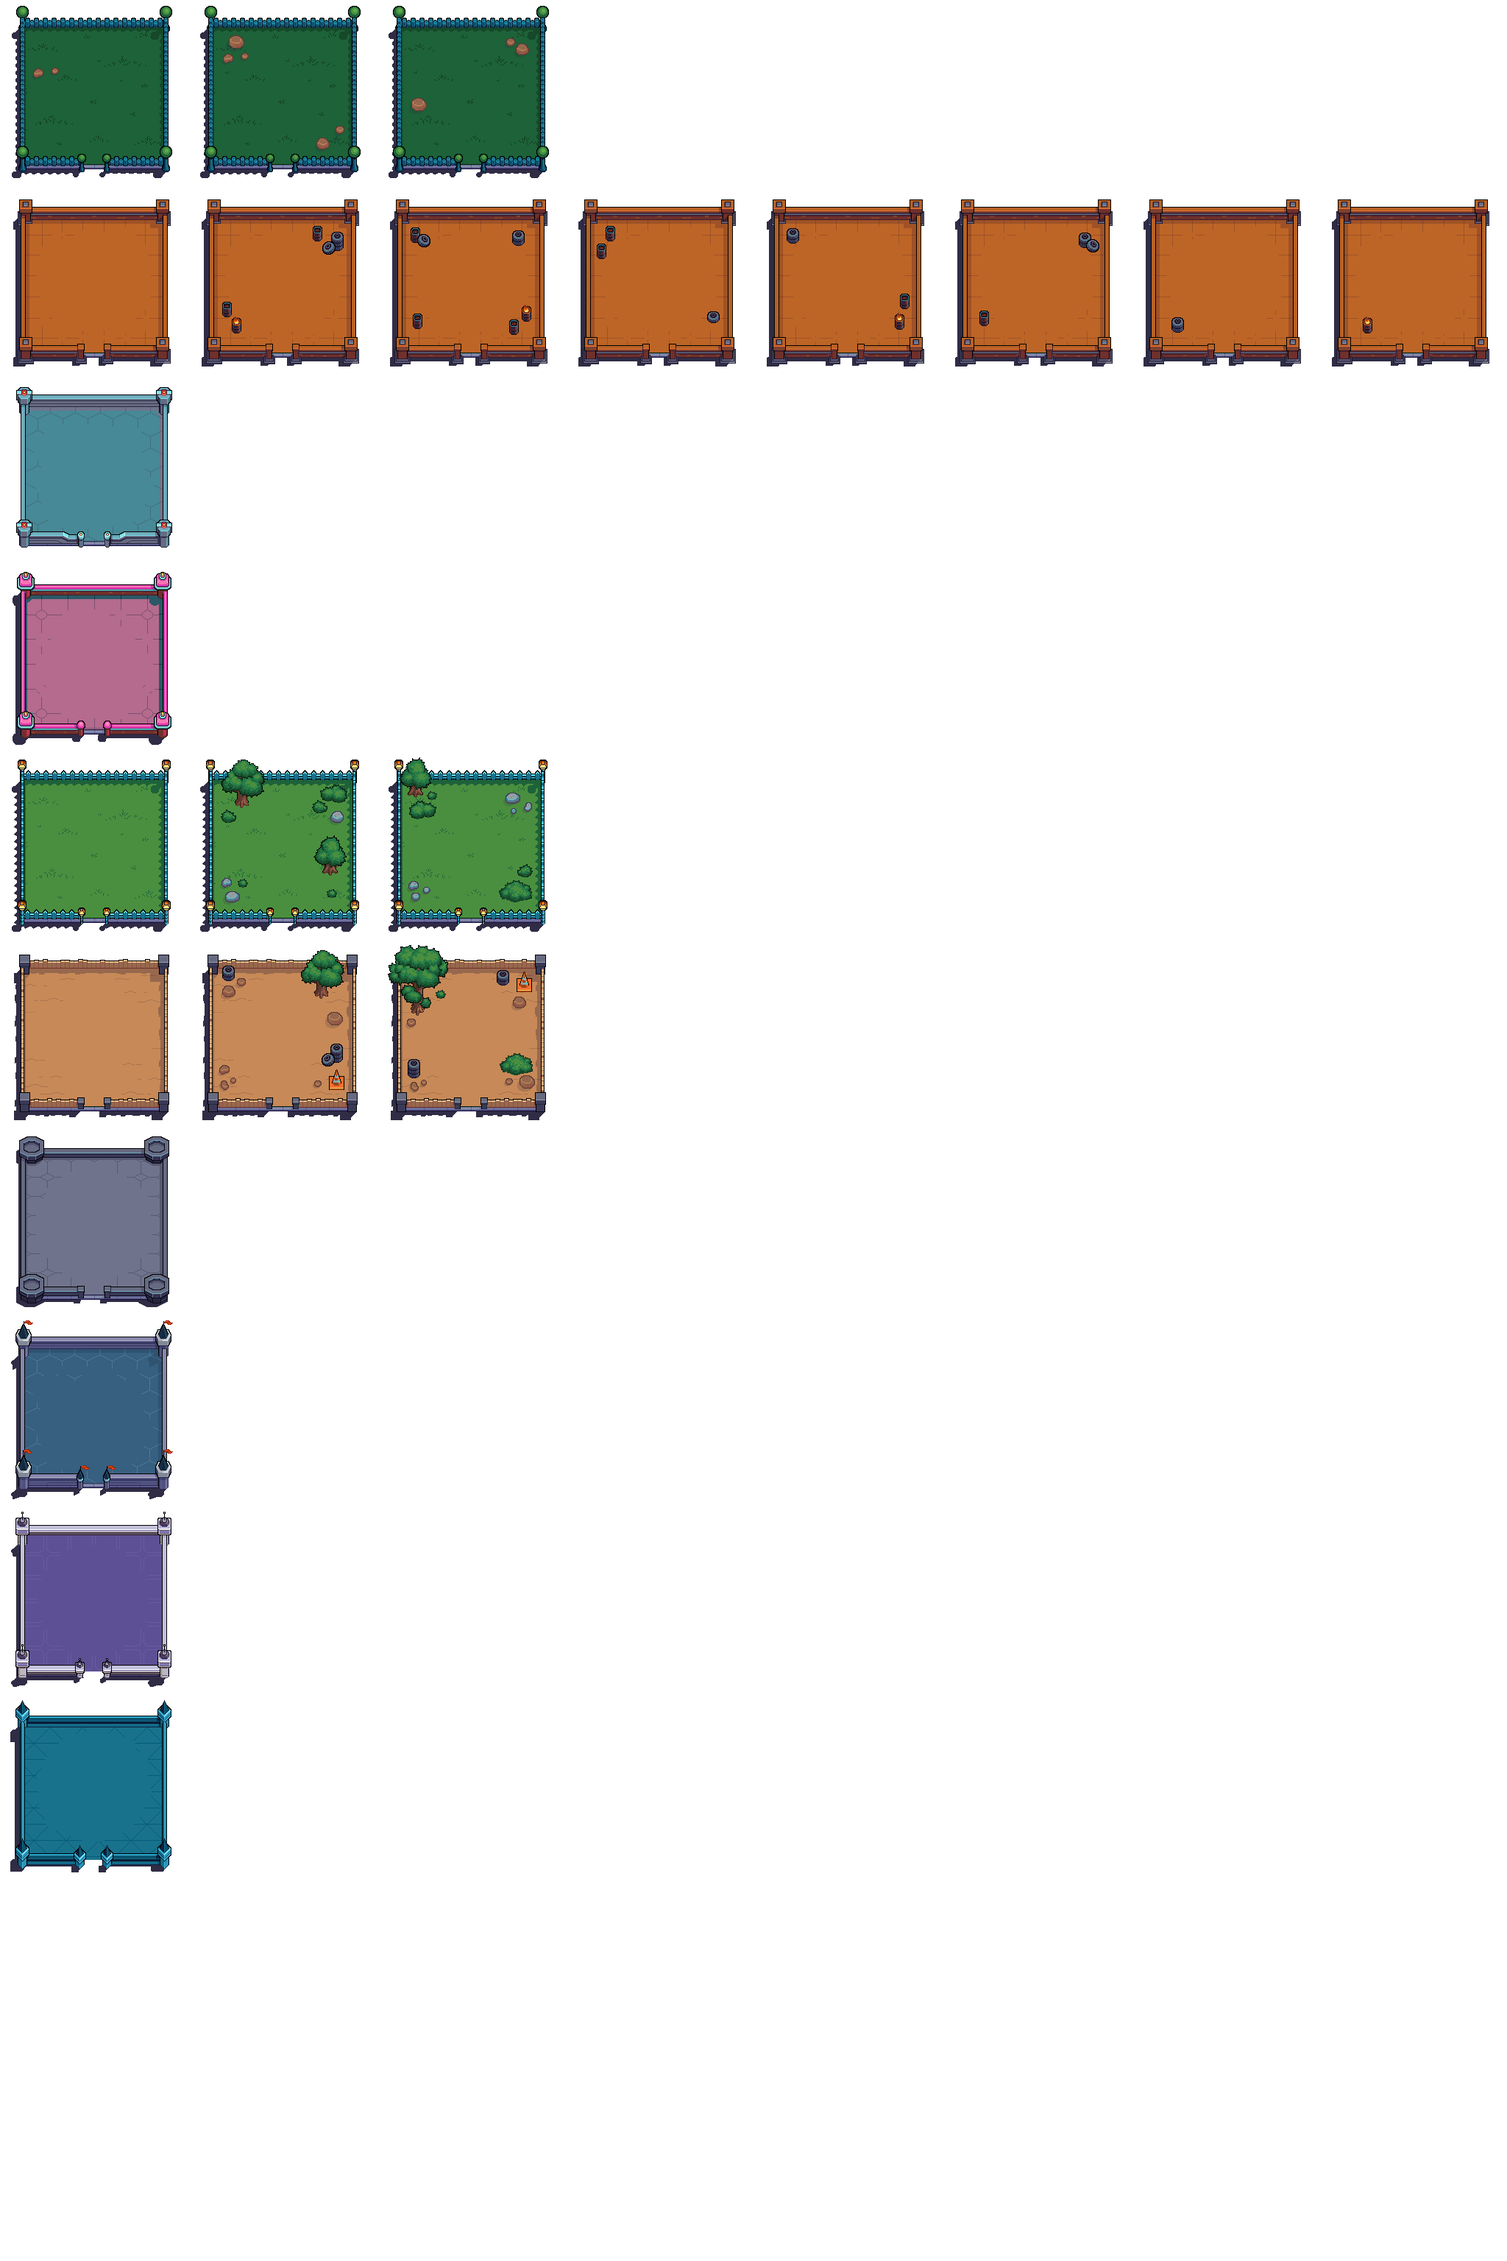
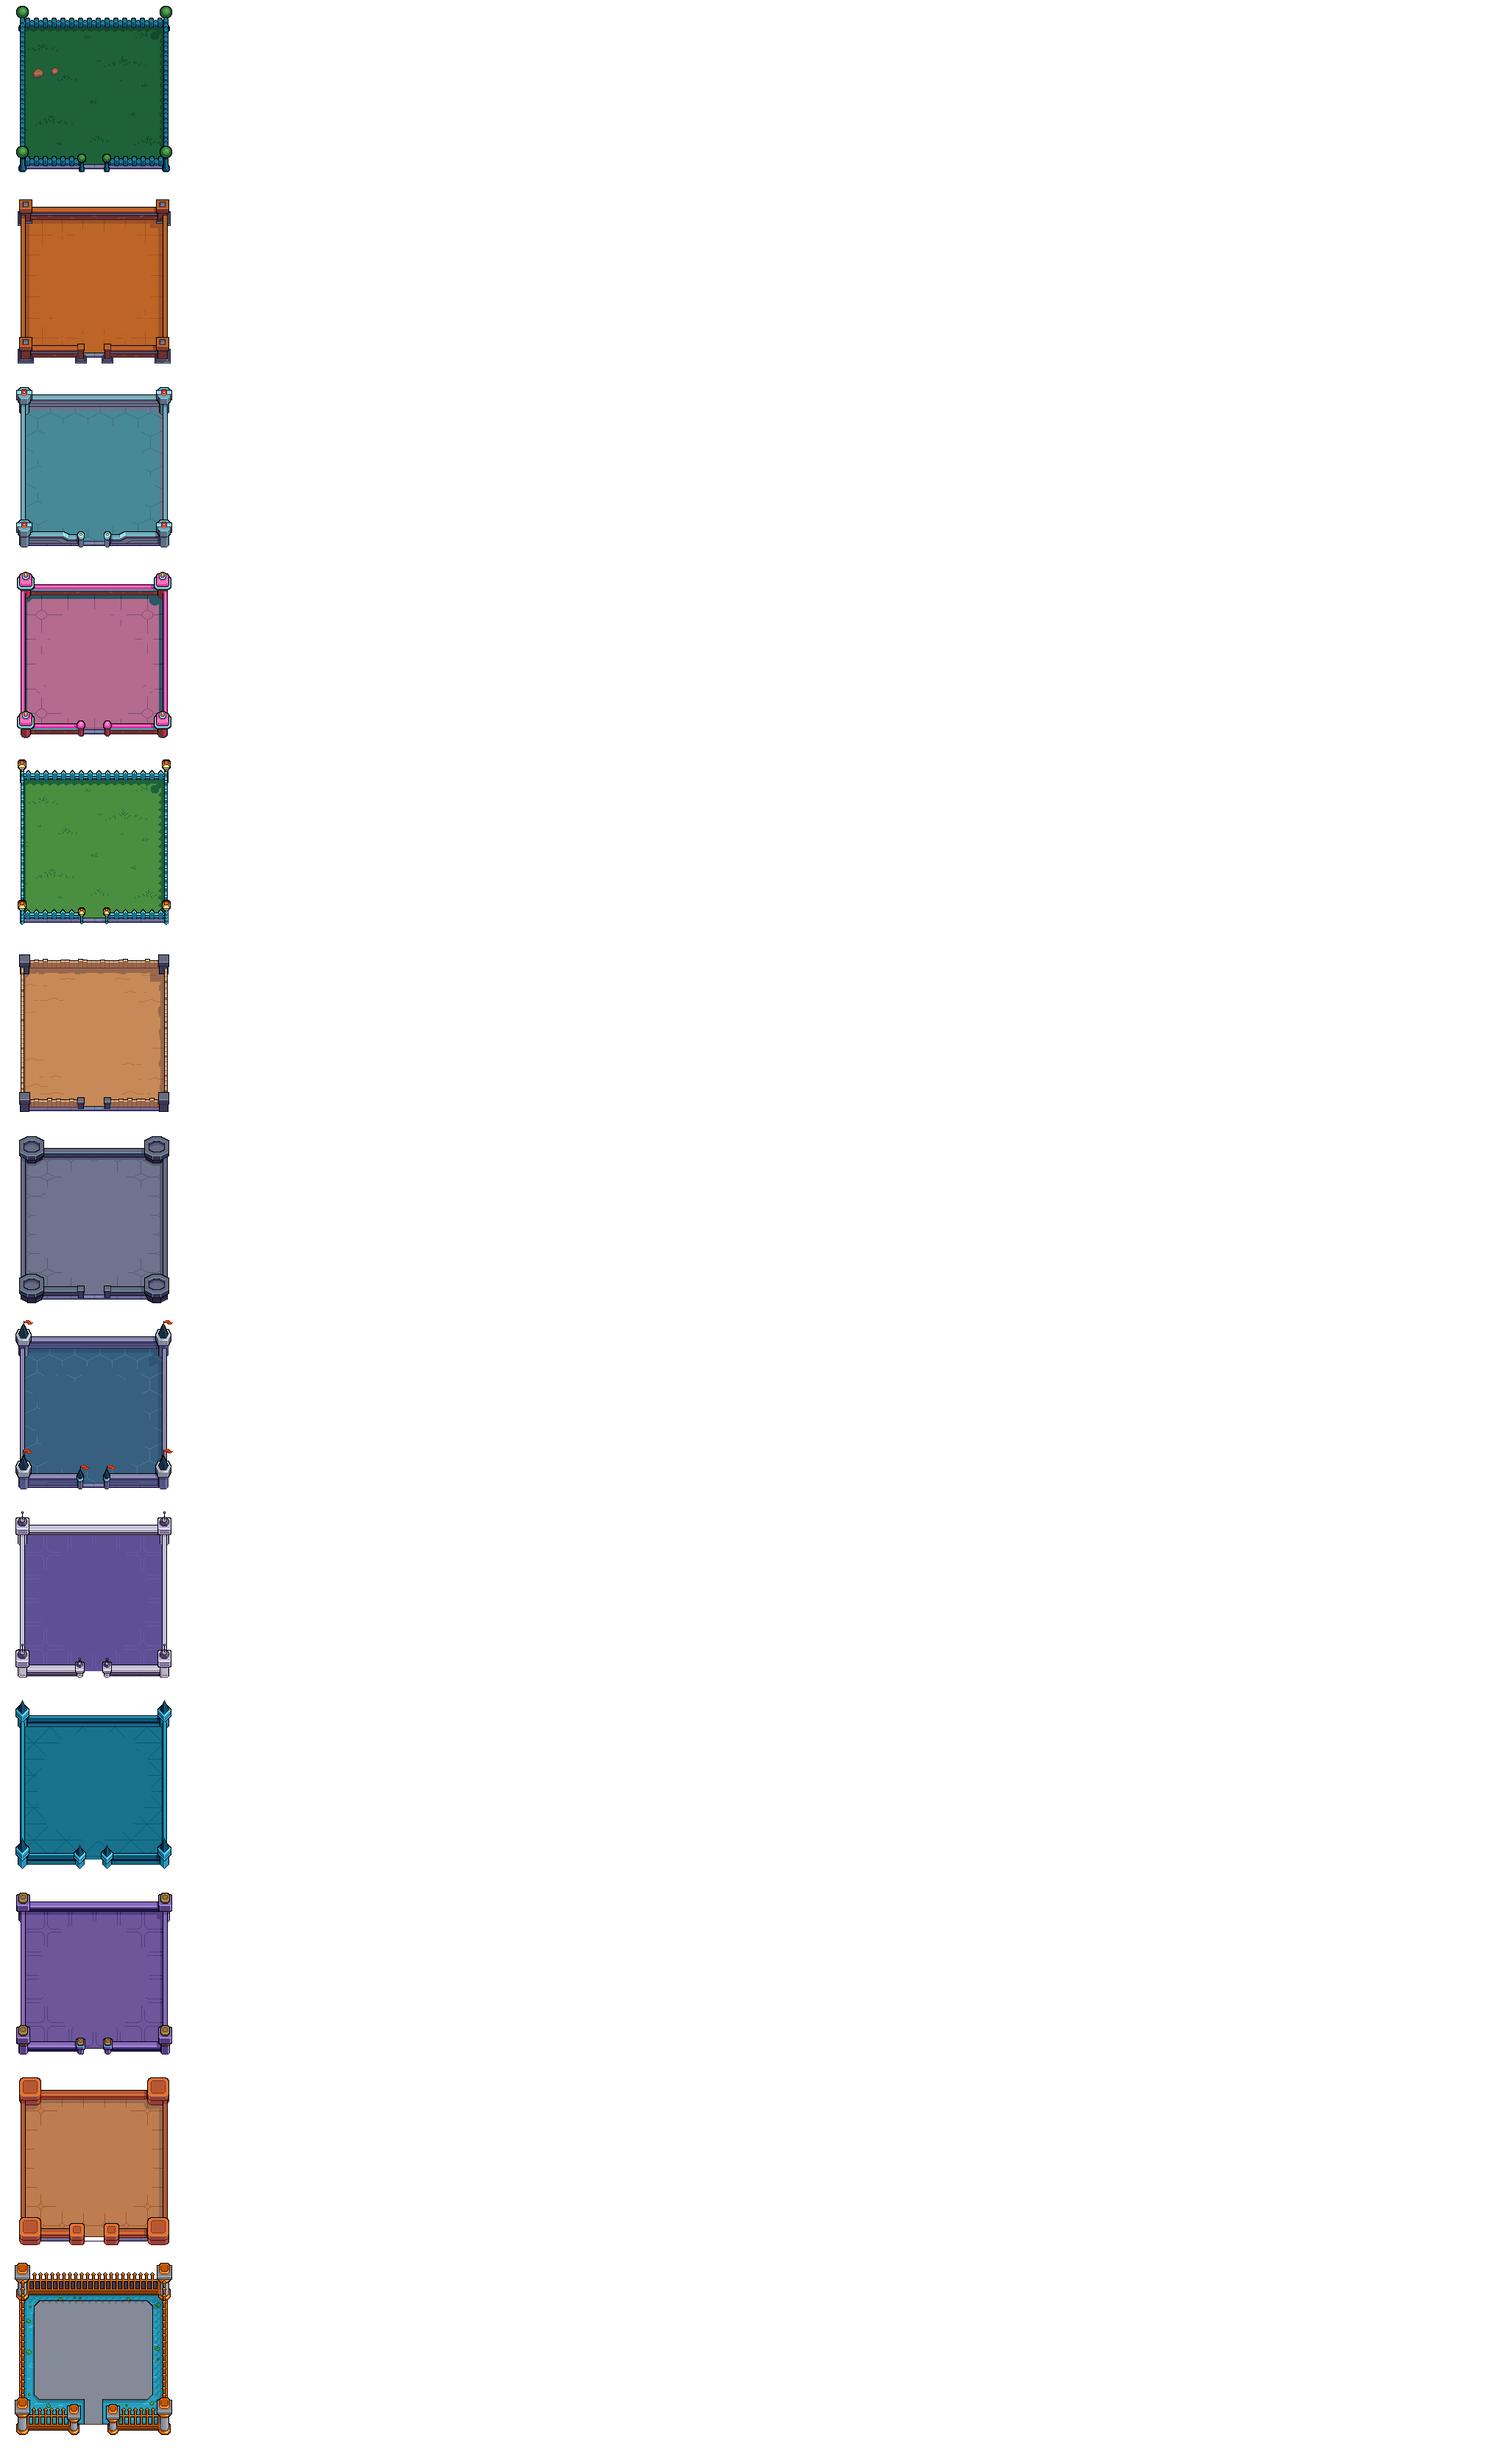
style: new biomes sheet

Changed region(s): [[0.0, 0.2188, 0.375, 1.0], [0.0, 0.0, 1.0, 0.1875]]

diff --git a/client/src/lib/components/animation/nuke-explosion.svelte b/client/src/lib/components/animation/nuke-explosion.svelte
@@ -32,7 +32,7 @@
     class="absolute h-full w-full top-0 bottom-0 left-0 right-0 overflow-hidden z-20"
     style="mask-image: url('/tokens/+global/biomes.png'); mask-position: {-biomeX *
       width}px {-biomeY * height}px; mask-size: {(2048 / 256) *
-      width}px {(3072 / 256) * height}px;"
+      width}px {(3328 / 256) * height}px;"
   >
     <div
       class="flashing-biome absolute h-full w-full top-0 bottom-0 left-0 right-0"

diff --git a/client/src/lib/components/land/land-display.svelte b/client/src/lib/components/land/land-display.svelte
@@ -99,7 +99,7 @@
       xSize={256}
       xMax={2048}
       ySize={256}
-      yMax={3072}
+      yMax={3328}
       {width}
       {height}
       class="Biome absolute h-full w-full top-0 bottom-0 left-0 right-0 {selected
